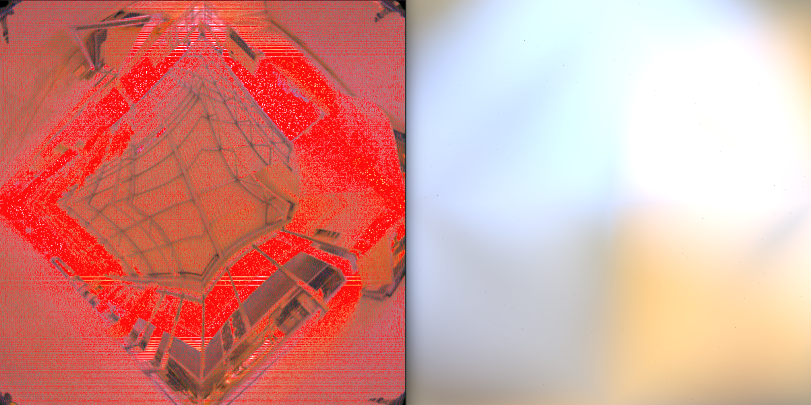
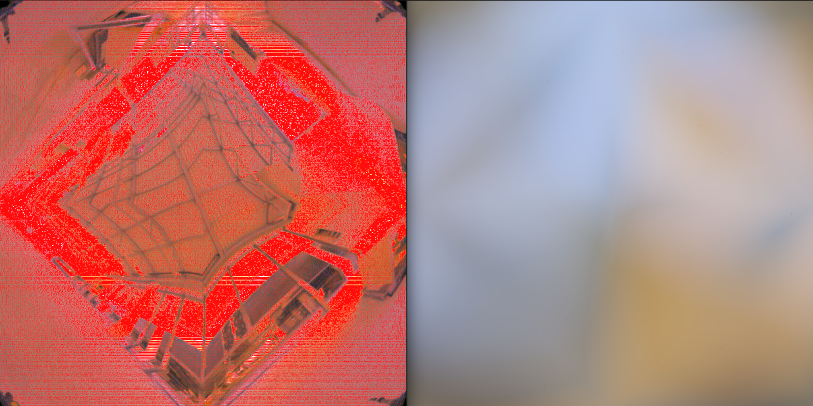
doc

diff --git a/examples/envmap_example.rs b/examples/envmap_example.rs
@@ -76,7 +76,7 @@ fn main() {
 
             result = del_geo_core::vec3::add(&result, &radiance);
         }
-        del_geo_core::vec3::scale(&mut result, (4.) / nsamples as Real);
+        del_geo_core::vec3::scale(&mut result, PI / nsamples as Real);
 
         pix.0 = result;
     };
